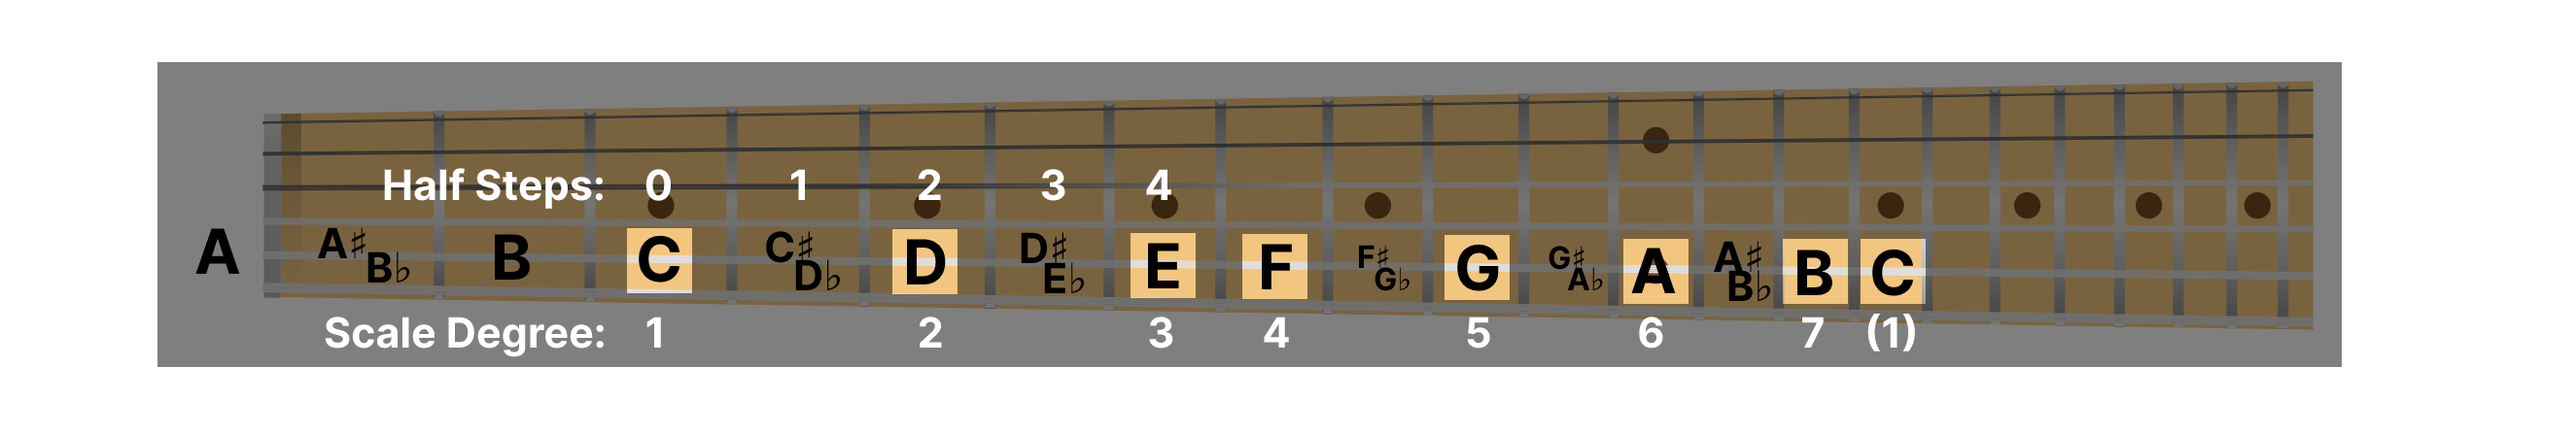
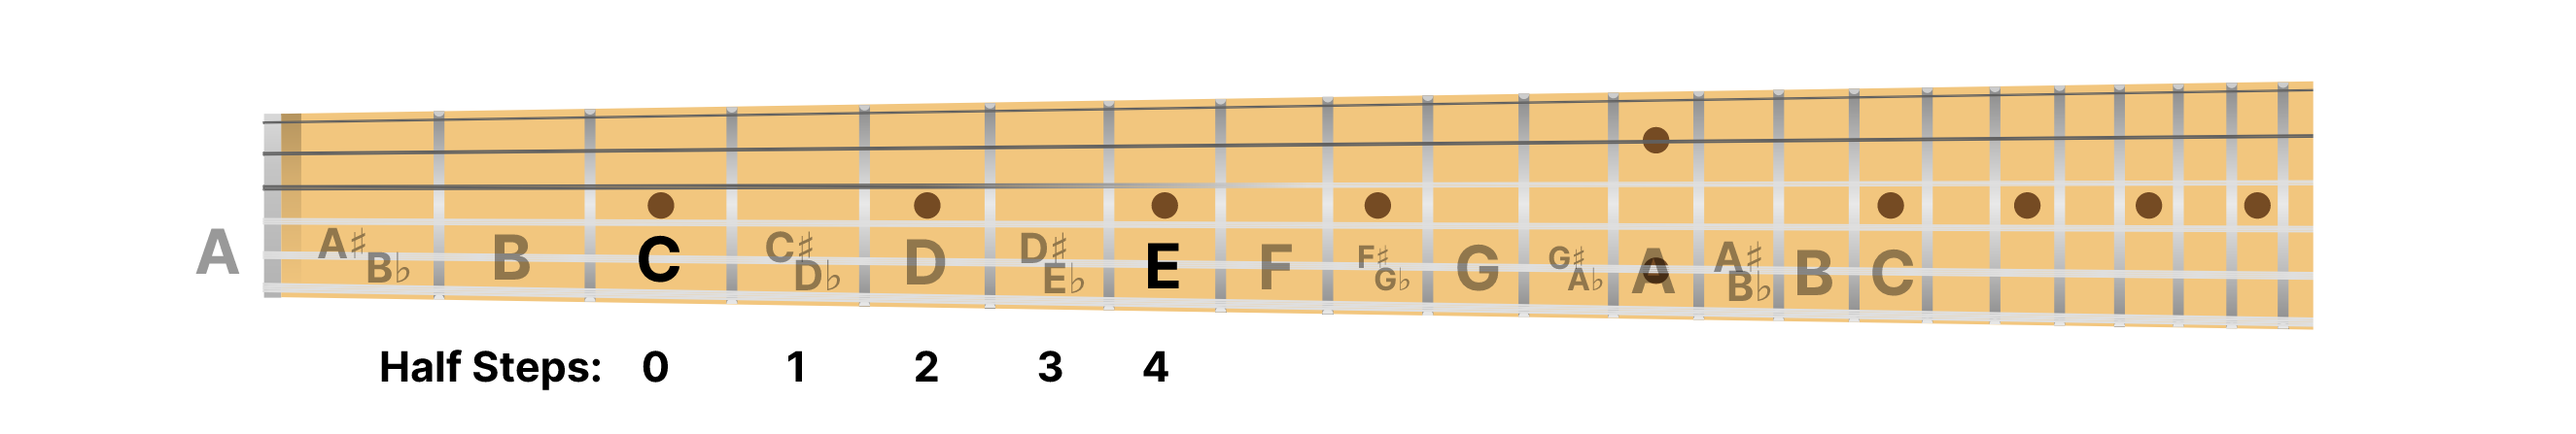
update

diff --git a/musictheory.md b/musictheory.md
@@ -308,7 +308,7 @@ With D as the root, D to F is a Minor Third:
 
 As visualized on the guitar:
 
-![ ]({{ site.baseurl }}/images/c-to-e-3rd.png){: .mx-auto.d-block :}
+![ ]({{ site.baseurl }}/images/d-to-f-3rd.png){: .mx-auto.d-block :}
 
 With E as the root, E to G is a Minor Third:
 
@@ -318,7 +318,7 @@ With E as the root, E to G is a Minor Third:
 
 As visualized on the guitar:
 
-![ ]({{ site.baseurl }}/images/c-to-e-3rd.png){: .mx-auto.d-block :}
+![ ]({{ site.baseurl }}/images/e-to-g-3rd.png){: .mx-auto.d-block :}
 
 With F as the root, F to A is a Major Third:
 
@@ -328,7 +328,7 @@ With F as the root, F to A is a Major Third:
 
 As visualized on the guitar:
 
-![ ]({{ site.baseurl }}/images/c-to-e-3rd.png){: .mx-auto.d-block :}
+![ ]({{ site.baseurl }}/images/f-to-a-3rd.png){: .mx-auto.d-block :}
 
 With G as the root, G to B is a Major Third:
 
@@ -338,7 +338,7 @@ With G as the root, G to B is a Major Third:
 
 As visualized on the guitar:
 
-![ ]({{ site.baseurl }}/images/c-to-e-3rd.png){: .mx-auto.d-block :}
+![ ]({{ site.baseurl }}/images/g-to-b-3rd.png){: .mx-auto.d-block :}
 
 With A as the root, A to C is a Minor Third:
 
@@ -348,7 +348,7 @@ With A as the root, A to C is a Minor Third:
 
 As visualized on the guitar:
 
-![ ]({{ site.baseurl }}/images/c-to-e-3rd.png){: .mx-auto.d-block :}
+![ ]({{ site.baseurl }}/images/a-to-c-3rd.png){: .mx-auto.d-block :}
 
 With B as the root, B to D is a Minor Third:
 
@@ -358,7 +358,7 @@ With B as the root, B to D is a Minor Third:
 
 As visualized on the guitar:
 
-![ ]({{ site.baseurl }}/images/c-to-e-3rd.png){: .mx-auto.d-block :}
+![ ]({{ site.baseurl }}/images/b-to-d-3rd.png){: .mx-auto.d-block :}
 
 Definition to know: the "root" is the base note in the harmony. In the examples above, G is the "root" and B or B♭ is the "third".
 
